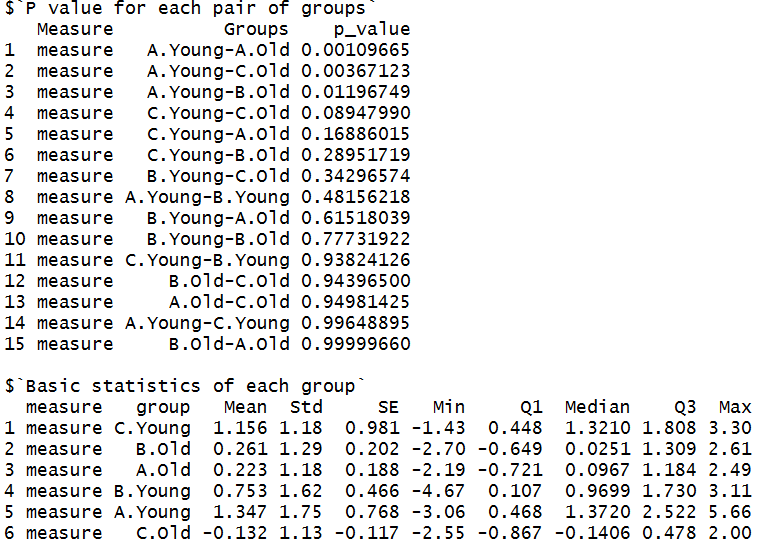
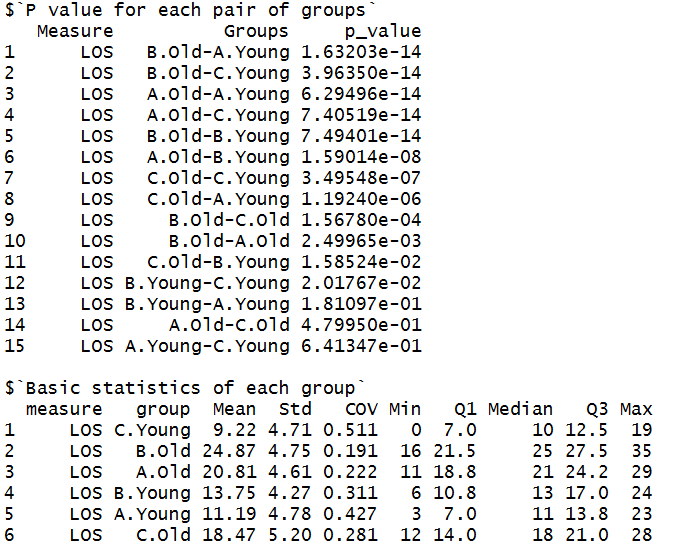
change the measure to LOS

Changed region(s): [[0.0, 0.0, 0.6231, 0.6515], [0.0, 0.6825, 0.997, 0.9927]]

diff --git a/inst/docs/healthcare-statistics/variation-across-groups.md b/inst/docs/healthcare-statistics/variation-across-groups.md
@@ -16,34 +16,25 @@ For example, of all the patients (Female and Male, Old and Young), which group
 
 Let's get started in RStudio!
 
-* First, we'll load healthcareai, create a fake dataset on which to work, 
+* First, we'll load healthcareai, upload a fake dataset on which to work, 
 and look at it:
 
 ```r
 library(healthcareai)
 
-set.seed(2017)
-n = 200
-df <- data.frame(Dept = sample(c("A","B","C"), 
-                              size = n, 
-                              replace = T, 
-                              prob =  c(0.5, 0.3, 0.2)),
-                  Age = factor(rbinom(50, 1, 0.45), labels = c("Young","Old")),
-                  Gender = factor(rbinom(50, 1, 0.45), labels = c("Male","Female")),
-                  measure = rnorm(n))
+csvfile <- system.file("extdata", 
+                       "variationAcrossGroupsExData.csv", 
+                       package = "healthcareai")
 
-countA <- length(df$measure[df$Dept == "A"])
-df$measure[df$Dept == "A"] <- df$measure[df$Dept == "A"] + rnorm(countA, mean = 0.25)
-countB <- length(df$measure[df$Dept == "B"])
-df$measure[df$Dept == "B"] <- df$measure[df$Dept == "B"] + rnorm(countB, mean = -0.25)
-countY <- length(df$measure[df$Age == "Young"])
-df$measure[df$Age == "Young"] <- df$measure[df$Age == "Young"] + rnorm(countY, mean = 1)
+# Replace csvfile with 'path/file'
+df <- read.csv(file = csvfile, 
+               header = TRUE, 
+               na.strings = c("NULL", "NA", ""))
 
 head(df)
 ```
 
-* Next, let's define our subgroups by `Dept` and `Age` and use `measure` as our 
-measure of interest. Then we pass these parameters to `variationAcrossGroups`.
+* Next, let's define our subgroups by `Dept` and `Age` and use `LOS` (length of stay) as our measure of interest. Then we pass these parameters to `variationAcrossGroups`.
 
 ```r
 measureColumn <- 'measure'
@@ -87,22 +78,17 @@ variationAcrossGroups(df,categoricalCols,measureColumn, printTable = FALSE,
 ## Full example code
 
 ```r
-set.seed(2017)
-n = 200
-df <- data.frame(Dept = sample(c("A","B","C"), 
-                              size = n, 
-                              replace = T, 
-                              prob =  c(0.5, 0.3, 0.2)),
-                  Age = factor(rbinom(50, 1, 0.45), labels = c("Young","Old")),
-                  Gender = factor(rbinom(50, 1, 0.45), labels = c("Male","Female")),
-                  measure = rnorm(n))
+library(healthcareai)
 
-countA <- length(df$measure[df$Dept == "A"])
-df$measure[df$Dept == "A"] <- df$measure[df$Dept == "A"] + rnorm(countA, mean = 0.25)
-countB <- length(df$measure[df$Dept == "B"])
-df$measure[df$Dept == "B"] <- df$measure[df$Dept == "B"] + rnorm(countB, mean = -0.25)
-countY <- length(df$measure[df$Age == "Young"])
-df$measure[df$Age == "Young"] <- df$measure[df$Age == "Young"] + rnorm(countY, mean = 1)
+csvfile <- system.file("extdata", 
+                       "variationAcrossGroupsExData.csv", 
+                       package = "healthcareai")
+
+# Replace csvfile with 'path/file'
+df <- read.csv(file = csvfile, 
+               header = TRUE, 
+               na.strings = c("NULL", "NA", ""))
+
 
 measureColumn <- 'measure'
 
@@ -121,11 +107,11 @@ variationAcrossGroups(df,categoricalCols,measureColumn, printTable = FALSE,
 ![Table output from variationAcrossGroups](img/variationAcrossGroupsTableOutput.png)
 
 ### The boxplot across the combinations of `Dept` and `Age`
-* There is no significant difference in the mean of measure among groups A.Young, 
-  B.Young and C.Young.
-* There is also no significant difference in the mean of measure among groups 
-  B.Young, C.Young, A.Old, B.Old and C.Old.
-* Group A.Young has a significant higher measure than groups A.Old, B.Old and C.Old.
+* There is no significant difference in the mean of LOS between groups A.Old and C.Old.
+* There is also no significant difference in the mean of LOS between groups 
+  A.Young and B.Young, and between groups A.Young and C.Young.
+* Group B.Old has a significant longer LOS than the other groups.
+* Group C.Young has a significant shorter LOS than the other groups.
 
 ![Boxplot output from variationAcrossGroups](img/variationAcrossGroupsBoxplotOutput.png)
 
